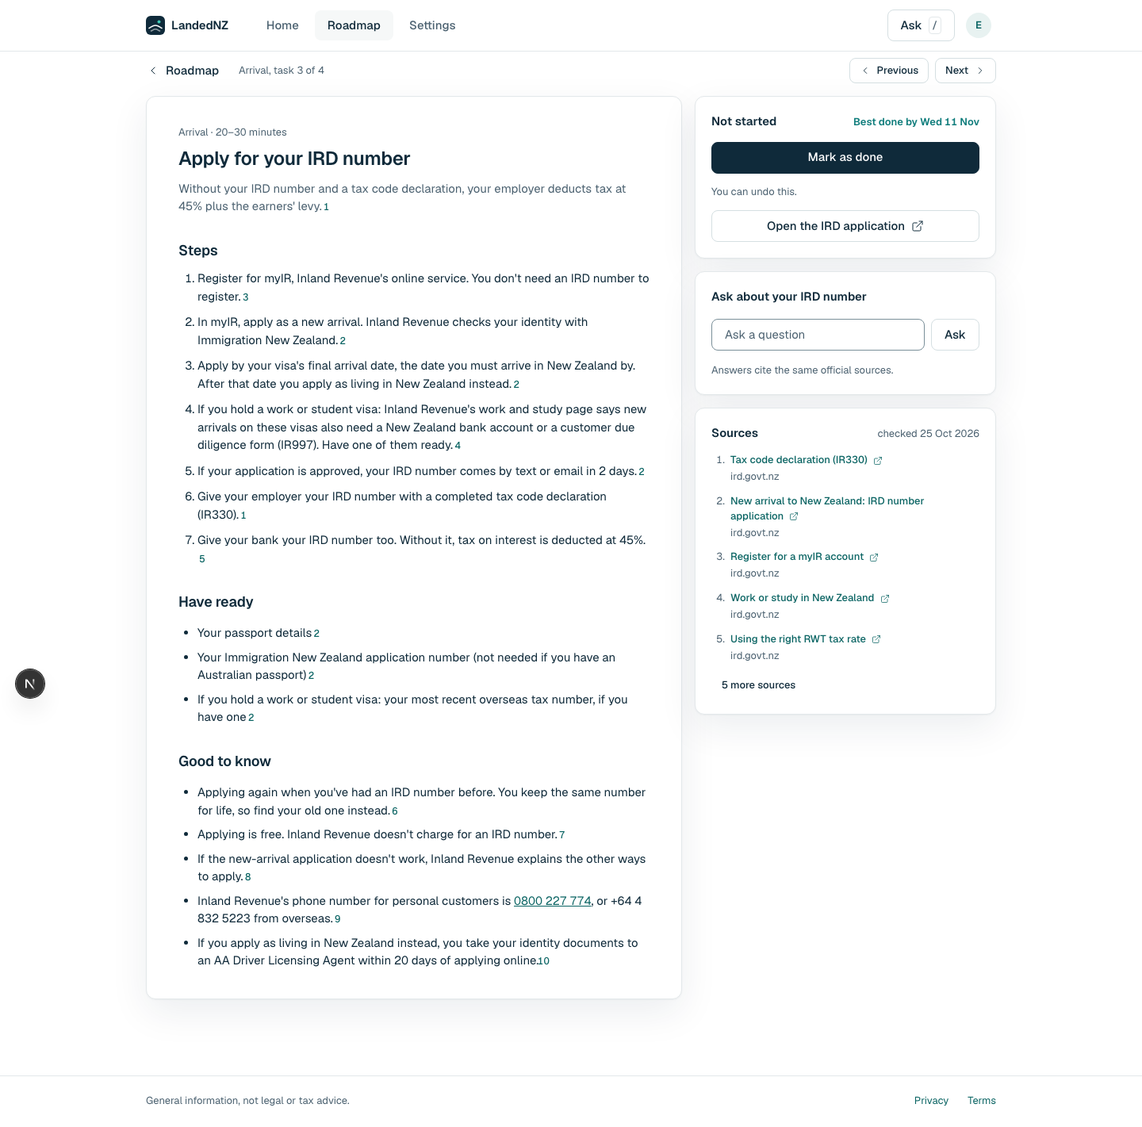
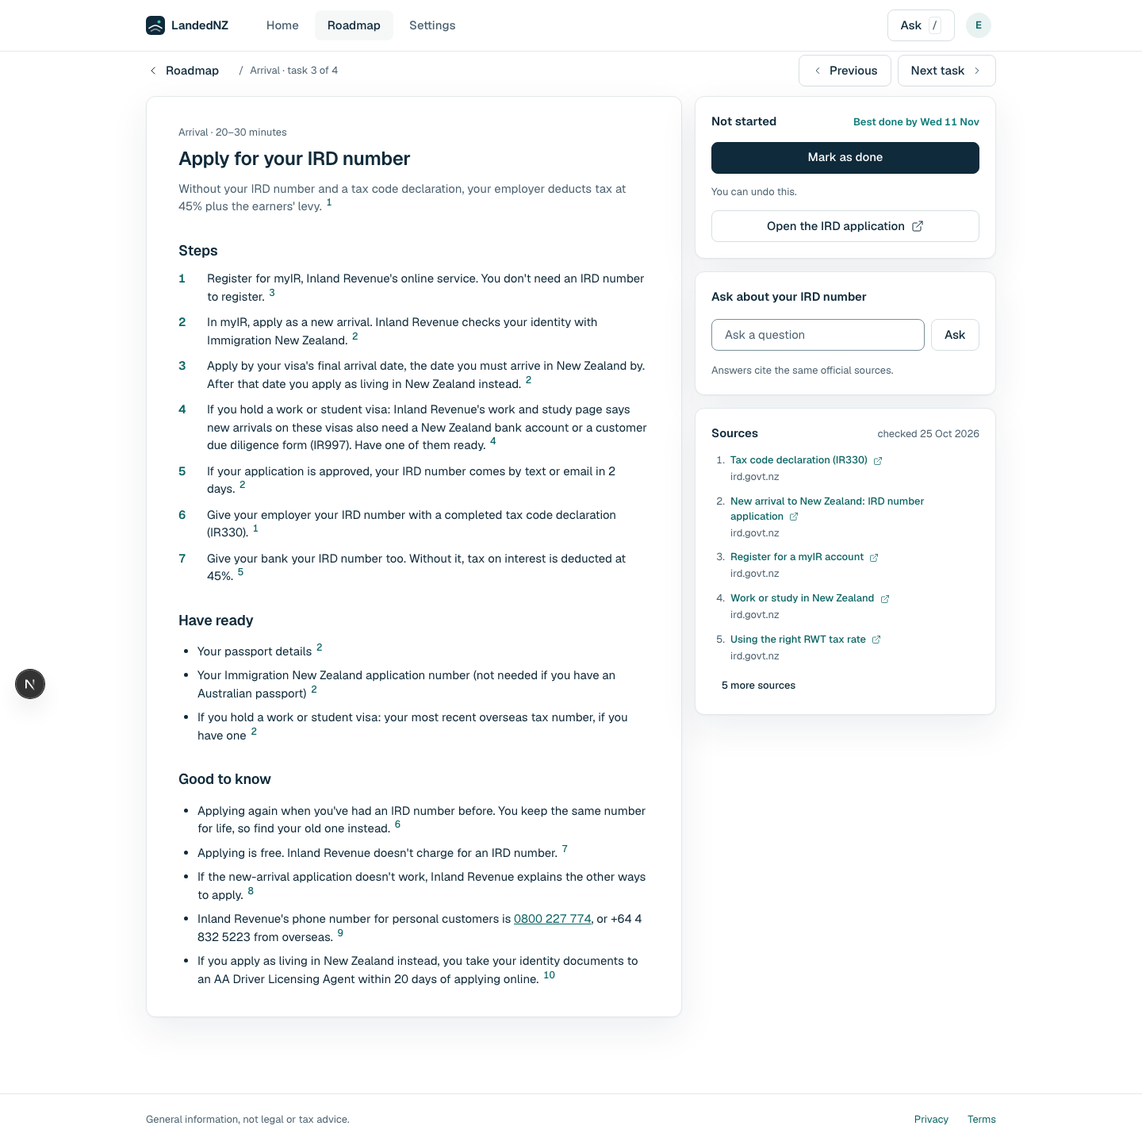
docs(design): gate re-shoot and fix round 2 critique; fix(web): carried title size

diff --git a/apps/web/src/components/workspace/roadmap-view.tsx b/apps/web/src/components/workspace/roadmap-view.tsx
@@ -142,7 +142,7 @@ function Itinerary({ it, startOpen }: { it: ItineraryData; startOpen: boolean })
               <div className="flex items-baseline justify-between gap-3">
                 <h2 className="text-body font-semibold max-narrow:text-section">
                   {current.name} · {plural(current.count, "task")}
-                  {current.carried.map((c, i) => <span key={c.stage} className="font-normal text-muted">{i ? ", " : ", "}{c.count} still open from {c.stage}</span>)}
+                  {current.carried.map(c => <span key={c.stage} className="text-small font-normal text-muted">, {c.count} still open from {c.stage}</span>)}
                 </h2>
                 <span className="hidden text-small text-muted max-narrow:inline">{current.when}</span>
               </div>

diff --git a/docs/design/r1-final/gate/critique-independent.md b/docs/design/r1-final/gate/critique-independent.md
@@ -1,0 +1,205 @@
+# Independent design review: final screens gate
+
+Method: an isolated reviewer ran the impeccable `critique` design-review assessment (Assessment A) and the `audit` dimensions. The reviewer did not build these screens. Run date 2026-10-29, branch feat/r0-polish.
+
+Inputs: all 40 gate screenshots in this folder (app and board, 1440 and 390, 10 pages), `apps/web/PRODUCT.md`, `.claude/constitution.md` (CW01–CW08). Where a screenshot could not settle a question, the reviewer read the source: `question-step.tsx`, `roadmap-itinerary.ts`, `roadmap-view.tsx`, `task-sheet.tsx`, `calendar.tsx`, `globals.css` and the board HTML. The detector (Assessment B) was not re-run; its result comes from the implementer's record. The implementer's `critique.md` was read only after this review was formed.
+
+Ignored: test-data differences (task names, dates, counts, avatar initials), the Next.js dev badge, and fixed bars that sit mid-image in full-page phone captures.
+
+## Known items: the owner decides (not re-argued)
+
+- The signed-in column is 1072 px against the board's 1200 px. The same `container-page` (1120 px minus 24 px padding) also makes the **public pages** 1072 px against their board's 1120 px (landing, sign in, save; app content starts at x=184, board at x=160). One owner decision covers both.
+- The phone gutter is 24 px against the board's 16 px. This applies to every page.
+- Already fixed: 24 px targets for the Home "Roadmap" link and the roadmap rows.
+
+## Per-page differences, board vs app
+
+### Landing
+- **1440:** The hero preview card is a different component. The board shows divided rows (hairline between rows) with state icons: a filled teal check, a teal ring, a dashed circle, a hollow circle. Name text is 15 and meta sits right-aligned. The app draws a vertical rail with small dots, no dividers and 13 px row text (`landing-1440.png` vs `-board`).
+- **1440:** The preview callout body is 13 in the app and 15 on the board.
+- **1440:** The "Build my roadmap" CTA has no trailing chevron; the board has one.
+- **1440:** On the board the topographic lines run behind the left of the hero too; in the app they are on the right only.
+- **1440:** The footer sits lower, with extra empty space below the feature row.
+- **390:** The CTA is auto-width; the board's is full-width with a chevron. "You see it before you sign up" is left-aligned; the board centres it.
+- **390:** The intro paragraph renders larger than the board's 15 (about 18).
+- **390:** The preview rows stack the meta under the name. The board keeps one row with the meta on the right, plus check icons and dividers.
+- **390:** The footer stacks Privacy/Terms on their own line; the board puts them right-aligned on one line.
+
+### Sign in
+- **1440 and 390:** The form is **not in a Card**. The board puts the whole form in a raised Card.
+- **1440 and 390:** There is no "or use email" divider; the app uses a plain hairline.
+- **1440 and 390:** The intro is missing "New here? Continue with Google to create your account."
+- **1440 and 390:** The consent text ("LandedNZ gets your name…") sits under the Google button. On the board it is centred under the submit button.
+- **1440 and 390:** The **Sign in submit is a small outline (quiet) button**. On the board it is a full-width primary ink button.
+- **1440 and 390:** The input borders are darker and heavier than the board's hairline inputs.
+- The gate README's note "Type scale only, as specced" is wrong for this page.
+
+### Save your roadmap
+- **1440:** The layout is different. The app is two columns: the form on the left and a grey, borderless "What you're saving" panel on the right with a rail list. The board is **one centred Card** with a compact teal "Saving your roadmap · 24 tasks / visa · city · who · lands" chip above the heading.
+- **1440 and 390:** The **submit says "Sign in" and is an outline button**. The board says "Save and sign in" and is full-width primary.
+- **1440 and 390:** As on Sign in, the "or use email" divider and the "New here?…" line are missing, and the consent text is in the wrong place.
+- **390:** The "What you're saving" summary is pushed below the whole form, so a phone user only sees what they are saving after the fields. The board shows it first.
+- The README's "Type scale only, as specced" is wrong here too.
+
+### Build my roadmap, question step (rail)
+- **1440:** The question block starts at the top (y≈48). On the board it is centred vertically in the white pane.
+- **1440:** Option rows are about 48 px tall with about 16 px radios; the board's are 60 px tall with 20 px radios.
+- **1440:** The upcoming rail labels ("Where you'll live", "Who's moving"…) are 13; the board's are 15.
+- **390:** **There is no Back button on phones** (`max-narrow:hidden` in `question-step.tsx`), and **Continue is inline in the page, not in a fixed bottom bar**. The board's phone has a fixed bar with a back chevron button and a full-width Continue.
+- **390:** The board's header shows the previous answer and "Change" from step 2 on. The app does this only from the date step's shot (step 1 shot, so it can't be compared directly).
+
+### Build my roadmap, date step
+- **1440:** Matches in structure. Days outside the month (28–30 Sep, 1 Nov) are only slightly muted, and "1" renders teal. The board fades outside days much further.
+- **1440:** The "You land on … / Tomorrow" summary is not shown because no day is picked (expected).
+- **390:** The same phone issue: **no Back**, and "See my roadmap" is inline rather than in a fixed bar.
+
+### Your roadmap is ready (preview)
+- **1440:** The subtitle lists the profile ("Accredited Employer Work Visa (AEWV), Auckland, …") and leaves out the board's leading task count ("24 tasks for a working holiday visa in …"). The count is the payoff line.
+- **1440:** The leg markers are hollow grey and the current marker is ink. The board uses teal leg rings and a filled teal current marker.
+- **1440:** The **"Start here" card is grey wash with no border**. The board's is teal-tinted with a teal hairline border.
+- **1440:** The waiting task ("Book temporary accommodation") uses the same solid hollow dot as available tasks. The board uses a dashed circle for waiting.
+- **390:** There is no phone board (the 1440 board is reused). The app phone looks coherent; the same marker and colour notes apply.
+
+### Home
+- **1440:** The "You're here" pill sits at the very start of the track (before-you-fly), but the Today line sits at Arrival. On day 1 after landing, the stage label reads "**Before you flew · now**". The reader sees "now" on a stage they have already passed, with the pill and the Today line apart.
+- **1440:** The stage labels under the track are **centred**; the board's are left-aligned under each segment. The "now" stage label is ink; on the board it is teal.
+- **1440:** The title appends the user's first name ("Welcome to Auckland, e2e-auth"); the board has no name. Email-only users get their email local part, e.g. "john.smith83".
+- **1440:** The "Then this week" row markers are small (about 12 px) hollow dots; the board's are 20 px circles.
+- **1440:** The Start task / Ask about this buttons are about 40 px tall (board about 44 px).
+- **390:** The "You're here" pill covers the track's start and nearly touches the card edge. The track is very small, and the label row is "Before you flew · now" plus "Roadmap" (board: "Arrival 3 of 4 / Week 1 · now / Roadmap").
+- **390:** The next-move body text renders larger than the board's (4 lines vs 2 for similar copy).
+- **390:** The bottom-nav icons differ: a route glyph and a cog in the app; a curve and sliders on the board.
+
+### Roadmap
+- **1440:** The current-stage group reads "**Arrival · 10 tasks**" ("Show 7 more") while the track above says "Arrival · 4 tasks". `roadmap-itinerary.ts` folds the 6 open "Before you flew" tasks into the current stage under the Arrival name, so "Book temporary accommodation" and "Gather and carry your key documents" appear as Arrival tasks.
+- **1440:** The subtitle "Done some already? Open a task and mark it done." is not on the board (the implementer noted it).
+- **1440:** The same pill vs Today-line split and centred stage labels as Home.
+- **1440:** There are no dependency arcs or "Dotted lines: unlocked by …" note in this state. The preview says "The next task waits on this one" for the same top task, yet neither Home nor Roadmap shows an "Unlocks" line for it. Check whether the dependency is lost after sign-in or is meant to drop.
+- **390:** The label under the track is "Before you flew · now" (board "Week 1 · 3 days left"). The phone Today card has no body text (matches the board).
+
+### Task details
+- **1440:** The breadcrumb is "Roadmap   Arrival, task 3 of 4" with no slash separator and a comma. The board has "Roadmap / Arrival · task 4 of 4".
+- **1440:** Previous and Next are small (about 32 px tall), and the label is "Next" not "Next task". The board's are larger.
+- **1440:** The steps use a plain ordered list ("1.") in ink. The board uses **teal bold numerals in a hanging column**.
+- **1440:** Citation markers sit on the baseline (`align-middle`) and wrap alone onto a new line ("45%." / "5"; "online.10" has no space). The board uses teal superscripts.
+- **1440:** The side card titles ("Not started", "Ask about your IRD number", "Sources") are 15 semibold. The board's are 18 (section). The Ask card title also differs: board "Ask about this task".
+- **1440:** The sources list adds domain lines. The number column and row dividers are gone, and **"5 more sources" is an ink ghost button**; the board has a teal link.
+- **1440:** The app adds an "Open the IRD application" button (the implementer noted it). The page scrolls as a whole (noted).
+- **1440:** The main column is about 676 px; the board's is about 803 px (follows from the width decision).
+- **390:** **The card butts against the header**, with no gap under the 56 px bar. The board leaves 16 px.
+- **390:** The back link is a text "‹" glyph rather than the chevron icon, and the plain "1." numerals and baseline citations repeat here.
+- **390:** The "why" paragraph shows on phones; the board omits it.
+
+### Settings
+- **1440:** The option radios are about 13 px; the board's are 20 px. The editor's option column is narrower (about 500 px vs 630 px) because the Card's padding is 56 px on each side (`px-14`).
+- **1440:** The board shows "City · changing" and the app shows "Visa · changing" (test state, ignored).
+- **390:** The first row label "Visa" renders **teal** when nothing is being edited; the board's labels are all grey.
+- **390:** The rest matches (the account card, Delete account in red, the footer).
+
+## Findings ranked
+
+### P0
+None. Nothing is broken or blocks a task.
+
+### P1
+1. **Sign in: form structure and primary action don't match the board.**
+   - *Page/shot:* signin-1440 and -390.
+   - *Why:* The board's single Card, its "or use email" divider and its full-width primary "Sign in" make the email path obvious and finished. The app has no Card, a quiet auto-width submit and no divider. The main action looks secondary, and it breaks the "every section a Card" rule.
+   - *Fix:* Wrap the form in `Card` (radius 12, padding 20/16). Add the "or use email" labelled divider. Make the submit `Button` default (ink) at `w-full`. Move the consent text under the submit, centred, at 13. Add "New here? Continue with Google to create your account." Use hairline input borders as on the board.
+2. **Save your roadmap: wrong layout and wrong submit label.**
+   - *Page/shot:* save-1440 and -390.
+   - *Why:* The board is one centred Card with a compact "Saving your roadmap · N tasks" chip, so the user knows what they are saving before they act. The app's two-column grey panel puts that summary after the form on phones. Its submit says "Sign in" (outline), which hides that submitting saves the roadmap.
+   - *Fix:* Rebuild it as the PsSave Card: back link, teal chip (count + visa · city · who · lands date), title, intro with "New here?", Google, divider, fields, full-width primary "Save and sign in", consent. Drop the side panel.
+3. **Landing: the hero preview figure is a different design.**
+   - *Page/shot:* landing-1440 and -390.
+   - *Why:* It is the main visual on the main Persuade page. The board's divided checklist with check, ring, dashed and hollow icons reads at a glance as "your tasks, in order, with status". The app's rail with tiny dots and 13 px text is quieter and doesn't match the approved board.
+   - *Fix:* Render `roadmap-preview-figure.tsx` as the board does: hairline-divided rows at 15, 20 px state icons (filled check / teal ring / dashed / hollow) and right-aligned meta on phones too. Set the callout body to 15. Add the chevron to the CTA. On phones make the CTA full-width, centre the helper line, and put the footer links on one line.
+4. **Roadmap: the stage count contradicts the track.**
+   - *Page/shot:* roadmap-1440 ("Arrival · 10 tasks" under a track saying "Arrival 4 tasks").
+   - *Why:* Trust comes first (PRODUCT.md principle 1). A planner who sees two different counts for the same stage, and before-you-fly tasks listed as Arrival tasks, starts doubting the roadmap.
+   - *Fix:* In `buildItinerary`, keep the open tasks carried over from earlier stages, but label them honestly. Either give them their own group ("Still open from Before you flew · 6 tasks") above the current stage, or title the group "Arrival · 4 tasks + 6 still open from Before you flew". Show the stage name in each carried row's meta.
+5. **Onboarding on phones: no Back button and no fixed action bar.**
+   - *Page/shot:* rail-390, rail-date-390 vs StRailPhone board.
+   - *Why:* The board's fixed bar holds a back chevron and a full-width Continue. The app hides Back (`max-narrow:hidden`) and leaves the action inline, so on a phone the only way back is browser back or the header "Change" for one answer. This is a clear board mismatch on the one-minute phone flow.
+   - *Fix:* On phones (under 561 px) render the action row as a fixed bottom bar: a white bar with a hairline top and 16 px padding, a 44 px square back button with a chevron (Home on step 1), and a full-width primary Continue. Add bottom padding to `main` equal to the bar's height. Respect `env(safe-area-inset-bottom)`.
+
+### P2
+6. **Preview:** the Start-here card is grey with no border, and the leg markers are grey/ink. *Why:* The board uses teal to mark the starting point; grey makes it look disabled. *Fix:* Give the start card the teal wash with a teal hairline (`border-avatar`/teal token as on the board). Make the leg rings teal and the current marker filled teal. Use a dashed marker for the waiting task. Put the "N tasks for a …" count first in the subtitle.
+7. **Home and Roadmap tracks:** the "You're here" pill and the Today line disagree, and "Before you flew · now" shows after landing. *Why:* The one-minute check-in reader can't tell where they are. *Fix:* After arrival, label the stage holding overdue tasks "Before you flew · still open" and place "now" on the calendar stage (as the board does with "Week 1 · now"). Or move the pill to the Today line and mark the carried-over tasks separately. Make the "now" stage label teal and left-align the stage labels under their segments.
+8. **Task page type and number styling.** *Why:* It drifts from the board and is harder to scan. Baseline citations wrap alone onto lines and read as stray digits. *Fix:* Style step numbers as teal semibold in a hanging column. Make citations superscript (`align-super`, keep the 24 px hit area with negative margins). Make the side card titles `text-section` (18). Use teal link styling for "N more sources". Restore the number column and dividers in Sources. Label the buttons "Next task"/"Previous" at the default size. Format the breadcrumb as "Roadmap / Arrival · task n of m".
+9. **Task page on phones:** the card touches the header. *Fix:* Add 16 px top margin (`mt-4`) under the header at phone width.
+10. **Question steps at 1440:** the content is top-aligned, rows are 48 px with small radios, and upcoming rail labels are 13. *Fix:* Centre the question block vertically in the pane (as on the board). Make option rows `min-h-15` with 20 px radios (shared `option-row.tsx`, which fixes Settings too). Set the upcoming rail labels to 15.
+11. **Settings:** the radios are 13 px, and the phone's "Visa" label is teal when idle. *Fix:* 20 px radios via `option-row.tsx`. Apply the teal label only in the `changing` state.
+12. **Home greeting adds the first name** (the board has none). Email-only users get their email local part. *Fix:* Follow the board ("Welcome to Auckland"), or use the name only when `full_name` exists, never the email local part.
+13. **Home on phones:** the track is cramped, the "You're here" pill covers the track start, and the next-move body is larger than the board's. *Fix:* Increase the phone track height as on the board. Clamp the pill inside the card padding. Set the next-move body to 15 (board size).
+14. **Unlocks are missing after sign-in:** the preview says "The next task waits on this one", but Home and Roadmap show no "Unlocks" line or arcs for the same task. *Fix:* Check `unlocksOf` with the signed-in route. If the dependency is real, show it; if it drops after arrival, change the preview copy.
+
+### P3
+15. **Calendar:** days outside the month are not faded as much as on the board, and "1" renders teal. *Fix:* Use a lighter token for `data-outside` and check the teal state on the trailing day.
+16. **Bottom-nav icons** differ from the board (route glyph and cog vs curve and sliders). *Fix:* Use the board's icons.
+17. **Roadmap subtitle** "Done some already?…" is not on the board (the owner keeps it or drops it).
+18. **Card padding rule vs board:** the rule says padding 20 (16 on phones), but the Settings dark card (`p-8`), the Settings editor (`p-10 px-14`) and the Task card (`px-10 py-9`) follow the boards' 28–56 px padding instead. *Fix:* The owner says which wins; then align the code or the rule.
+19. **Landing:** the topographic lines don't extend behind the hero copy as they do on the board.
+20. **Task (phone):** the back link uses a "‹" text glyph rather than the chevron icon.
+
+## Where I agree and disagree with the implementer's critique.md
+
+- **Agree:** no P0. The width and gutter decision goes to the owner, and the target-size fixes are correct. Reduced motion is respected: `motion-safe:animate-pulse` and the reduce media queries cover aurora, skeleton and stamp. Light only. The type tokens are in @theme. Design specificity is strong (track, pill, unlock arcs, dark answers rail).
+- **Disagree: "P1: none."** Five clear board mismatches are missing from it. The Sign in and Save structures (no Card, wrong submit style and label, missing divider) are wrong. The landing hero preview is a different component. Phone onboarding has no Back button or fixed bar. The Roadmap stage count contradicts the track. The gate README calls landing, sign in and save "Type scale only, as specced", which the screenshots disprove.
+- **Disagree: consistency 3, user control 4, Responsive 3, Implementation integrity 4.** The board-fidelity gaps and the phone onboarding missing Back pull these down (scores below). A clean detector with 0 findings shows the code has no anti-patterns; it does not show the screens match the boards.
+- **Not covered by it:** the Preview colour states, the pill vs Today-line disagreement, the task-page typography drift, the phone card butting the header, the Settings radio size, and the greeting falling back to the email local part.
+- **Unverified here:** the axe and type-scale e2e results (0 violations, 0 offenders). They were not re-run. Nothing in the shots contradicts them, except that the landing phone intro and the Home phone body look larger than the board (still in-scale sizes, so not a rule breach).
+
+## Scores
+
+### Nielsen heuristics (0–4)
+| # | Heuristic | Score | Key issue |
+|---|---|---|---|
+| 1 | Visibility of system status | 3 | Pill vs Today line vs "now" label disagree on day 1 |
+| 2 | Match with the real world | 3 | "Before you flew · now" after landing |
+| 3 | User control and freedom | 2 | No Back on phone onboarding |
+| 4 | Consistency and standards | 2 | Public pages diverge from boards; stage counts disagree |
+| 5 | Error prevention | 3 | "Sign in" on Save hides that submitting saves |
+| 6 | Recognition rather than recall | 3 | Save summary below the form on phones |
+| 7 | Flexibility and efficiency | 3 | Ask `/` shortcut; Prev/Next on tasks |
+| 8 | Aesthetic and minimalist design | 3 | Calm; drifts from the board's teal state language |
+| 9 | Error recovery | 3 | ApiDown retry; not exercised in shots |
+| 10 | Help and documentation | 3 | Cited sources beside steps; citations hard to read |
+| **Total** | | **28/40** | Good, with board-fidelity work needed |
+
+### Audit dimensions (0–4)
+| # | Dimension | Score | Key finding |
+|---|---|---|---|
+| 1 | Accessibility | 3 | axe clean (reported); 24 px targets fixed; small 13–16 px radios rely on whole-row targets |
+| 2 | Performance | 3 | Not profiled; no heavy media |
+| 3 | Theming | 3 | Tokens in @theme, light only; `.gsi` raw values are a documented exception; card padding off the stated rule |
+| 4 | Responsive design | 2 | Phone onboarding has no fixed bar or Back; the phone task card touches the header; the phone Save summary comes after the form |
+| 5 | Implementation integrity | 2 | Signed-in pages are faithful; three public pages and the onboarding phone diverge from the approved boards (CW02′) |
+| **Total** | | **13/20** | Acceptable: fix the P1s before the gate passes |
+
+P0: 0, P1: 5
+
+## Fix round 2
+
+DEGRADED: single-context (the brief forbids sub-agents, so Assessments A and B ran in one context). Assessment A: impeccable `critique` on the re-shot home, roadmap, task and settings shots (1440 and 390) against their boards. Assessment B: `impeccable detect --json` over `components/workspace`, `components/route`, `components/settings` returned `[]`. Axe (wcag2a/aa/21aa/22aa, including target size) passes on every page at 1440 and 390 in e2e. Landing, Sign in, Save and the onboarding phone Back stay as the controller ruled (spec non-goals), so they are not re-listed.
+
+Fixed in this round: #4 (group title counts the stage's own tasks, carried rows named by stage), #7 labels (left-aligned under the segment, current "now" label teal), #8 (breadcrumb "Roadmap / Arrival · task n of N", "Next task", teal superscript citations with a space before, teal hanging step numbers), #9 (16 px gap), #11 phone label teal only when editing, #12 greeting, #13 body size. #14 is not a signed-in bug (see report).
+
+### P0
+None.
+
+### P1
+None.
+
+### P2
+1. **Home and Roadmap: "now" and "You're here" still sit on the "Before you flew" stage while the Today line sits at Arrival (day 1).** The place markers still disagree (#7, the part the brief excluded: You/Today formulas untouched). *Fix, if the owner wants it:* label the stage holding only overdue tasks "still open" and put "now" on the calendar stage.
+2. **Task page Sources card (1440):** the card title "Sources" is 15 (board 18), the number column and row dividers are gone, domain lines are added, and "5 more sources" is an ink ghost button (board: teal link). The "Ask about your IRD number" title also differs from the board's "Ask about this task". Not in this round's list.
+3. **Settings editor (1440):** radios are about 13 px (board 20) and the option column is narrower (Card `px-14`). Same `option-row.tsx` fix as the Build my roadmap rows.
+
+### P3
+4. **Stage row under the road (1440):** with equal-to-segment columns, the short Arrival segment's "4 tasks · 29–30 Oct" ends about 6 px before "Week 1" begins. It wraps at the dot when narrower, but at 1440 it reads tight. The board has more air because its labels carry fewer words.
+5. **Roadmap phone, carried title:** "Arrival · 4 tasks" at 18 with ", 6 still open from Before you flew" at 13 wraps over two lines with an uneven baseline. A second line of 13 muted text under the title would read cleaner.
+6. **Task page:** raised citations add a little uneven line spacing in step lists (superscript on a 1.5 line-height). Acceptable; `leading-none` on the link limits it.
+7. **Home (1440):** "Then this week" markers are 12 px hollow dots (board 20 px circles); Start task and Ask about this are about 40 px tall (board 44). Recently done shows the empty state (board: 4 tiles) because of the day-1 test data.
+8. **Home and Roadmap phone:** the "You're here" pill is inside the card padding but still covers the start of the road; the phone track is small next to the board.
+9. **Still open from the first critique, unchanged:** bottom-nav icons (#16), Roadmap subtitle "Done some already?" (#17), card padding rule vs board (#18), task page scrolls as a whole, task main column about 676 px vs 803 (width decision), calendar fade (#15), and the known width and gutter decisions.
